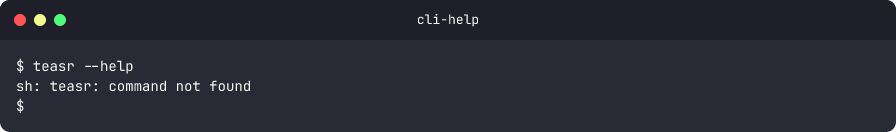
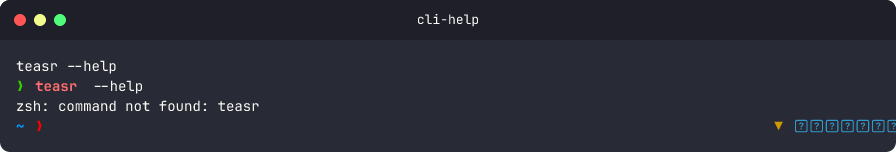
feat: add dynamic web capture with GIF support, shell login mode, and font fallback
- Use $SHELL with -li flags so terminal sessions inherit user's PATH
- Load system fonts as fallback for emoji/Unicode rendering
- Refactor web capture to return Vec<CapturedFrame> for multi-frame GIFs
- Move CapturedFrame to shared types, wire up orchestrator for web GIF/PNG
- Add CSS animations to demo page and capture them as animated GIF

diff --git a/examples/demo/index.html b/examples/demo/index.html
@@ -50,6 +50,61 @@
     .badge-blue { background: rgba(96,165,250,0.15); color: #93c5fd; }
     .badge-green { background: rgba(74,222,128,0.15); color: #86efac; }
 
+    /* Animation: badges slide up + fade in sequentially */
+    .badge {
+      opacity: 0;
+      transform: translateY(8px);
+      animation: pop-in 0.4s ease forwards;
+    }
+    .badge:nth-child(1) { animation-delay: 0.6s; }
+    .badge:nth-child(2) { animation-delay: 0.9s; }
+    .badge:nth-child(3) { animation-delay: 1.2s; }
+    @keyframes pop-in {
+      to { opacity: 1; transform: translateY(0); }
+    }
+
+    /* Animation: cards fade in with stagger */
+    .card {
+      opacity: 0;
+      transform: translateY(16px);
+      animation: slide-up 0.5s ease forwards;
+    }
+    .card:nth-child(1) { animation-delay: 1.5s; }
+    .card:nth-child(2) { animation-delay: 1.8s; }
+    .card:nth-child(3) { animation-delay: 2.1s; }
+    @keyframes slide-up {
+      to { opacity: 1; transform: translateY(0); }
+    }
+
+    /* Progress bar in hero */
+    .progress-bar {
+      margin: 28px auto 0;
+      width: 240px;
+      height: 6px;
+      border-radius: 3px;
+      background: #27272a;
+      overflow: hidden;
+    }
+    .progress-fill {
+      height: 100%;
+      width: 0%;
+      border-radius: 3px;
+      background: linear-gradient(90deg, #a78bfa, #6366f1);
+      animation: fill-bar 2.5s ease forwards 0.3s;
+    }
+    @keyframes fill-bar {
+      to { width: 100%; }
+    }
+
+    /* Status text fades in after bar fills */
+    .status {
+      margin-top: 12px;
+      font-size: 0.85rem;
+      color: #86efac;
+      opacity: 0;
+      animation: pop-in 0.3s ease forwards 2.9s;
+    }
+
     .cards {
       display: grid;
       grid-template-columns: repeat(3, 1fr);
@@ -108,7 +163,10 @@
     <div class="badges">
       <span class="badge badge-purple">PNG</span>
       <span class="badge badge-blue">GIF</span>
+      <span class="badge badge-green">MP4</span>
     </div>
+    <div class="progress-bar"><div class="progress-fill"></div></div>
+    <p class="status">&#10003; 3 scenes captured</p>
   </div>
 
   <div class="cards">

diff --git a/crates/teasr-core/src/orchestrator.rs b/crates/teasr-core/src/orchestrator.rs
@@ -4,7 +4,7 @@ use tracing::{info, warn};
 
 use crate::capture;
 use crate::server::ManagedServer;
-use crate::types::{CaptureResult, OutputFormat, ResolvedConfig, SceneConfig};
+use crate::types::{CaptureResult, CapturedFrame, OutputFormat, ResolvedConfig, SceneConfig};
 
 /// Run all scenes in order and return capture results.
 pub async fn run(config: &ResolvedConfig) -> Result<Vec<CaptureResult>> {
@@ -78,16 +78,69 @@ pub async fn run(config: &ResolvedConfig) -> Result<Vec<CaptureResult>> {
                     files.push(png_path.display().to_string());
                 }
             }
-            _ => {
+            SceneConfig::Web {
+                url,
+                viewport,
+                actions,
+                frame_duration,
+                ..
+            } => {
+                let has_gif = formats.iter().any(|f| matches!(f, OutputFormat::Gif));
+                let has_png = formats.iter().any(|f| matches!(f, OutputFormat::Png));
+
+                let vp = viewport.as_ref().unwrap_or(&config.viewport);
+                let full_url = if let Some(server) = &config.server {
+                    if url.starts_with('/') {
+                        format!("{}{}", server.url.trim_end_matches('/'), url)
+                    } else {
+                        url.clone()
+                    }
+                } else {
+                    url.clone()
+                };
+                let fd = frame_duration.unwrap_or(100);
+
+                let captured_frames = capture::web::capture(
+                    &full_url,
+                    vp,
+                    actions.as_deref().unwrap_or(&[]),
+                    fd,
+                )
+                .await?;
+
+                info!("captured {} web frames", captured_frames.len());
+
+                if has_gif && !captured_frames.is_empty() {
+                    let gif_path = output_dir.join(format!("{scene_name}.gif"));
+                    crate::convert::gif::frames_to_gif(&captured_frames, &gif_path)?;
+                    files.push(gif_path.display().to_string());
+                }
+
+                if has_png && !captured_frames.is_empty() {
+                    let png_path = output_dir.join(format!("{scene_name}.png"));
+                    write_last_frame_png(&captured_frames, &png_path)?;
+                    files.push(png_path.display().to_string());
+                }
+
+                for format in formats {
+                    match format {
+                        OutputFormat::Mp4 => {
+                            warn!("MP4 output requires ffmpeg in PATH - skipping for now");
+                        }
+                        _ => {}
+                    }
+                }
+            }
+            SceneConfig::Screen { .. } => {
                 for format in formats {
                     match format {
                         OutputFormat::Png => {
                             let path = output_dir.join(format!("{scene_name}.png"));
-                            capture_scene(scene, &path, config).await?;
+                            capture_screen_scene(scene, &path).await?;
                             files.push(path.display().to_string());
                         }
                         OutputFormat::Gif => {
-                            warn!("GIF output for non-terminal scenes not yet supported");
+                            warn!("GIF output for screen scenes not yet supported");
                         }
                         OutputFormat::Mp4 => {
                             warn!("MP4 output requires ffmpeg in PATH - skipping for now");
@@ -107,37 +160,21 @@ pub async fn run(config: &ResolvedConfig) -> Result<Vec<CaptureResult>> {
     Ok(results)
 }
 
-async fn capture_scene(
+/// Write the last frame of a capture as a PNG file.
+fn write_last_frame_png(frames: &[CapturedFrame], output_path: &Path) -> Result<()> {
+    let last = frames
+        .last()
+        .context("no frames to write")?;
+    std::fs::write(output_path, &last.png_data)
+        .with_context(|| format!("failed to write {}", output_path.display()))?;
+    Ok(())
+}
+
+async fn capture_screen_scene(
     scene: &SceneConfig,
     output_path: &Path,
-    config: &ResolvedConfig,
 ) -> Result<()> {
     match scene {
-        SceneConfig::Web {
-            url,
-            viewport,
-            actions,
-            ..
-        } => {
-            let vp = viewport.as_ref().unwrap_or(&config.viewport);
-            let full_url = if let Some(server) = &config.server {
-                if url.starts_with('/') {
-                    format!("{}{}", server.url.trim_end_matches('/'), url)
-                } else {
-                    url.clone()
-                }
-            } else {
-                url.clone()
-            };
-
-            capture::web::capture(
-                &full_url,
-                vp,
-                actions.as_deref().unwrap_or(&[]),
-                output_path,
-            )
-            .await
-        }
         SceneConfig::Screen {
             display,
             region,
@@ -158,8 +195,6 @@ async fn capture_scene(
             }
             capture::screen::capture(*display, region.as_ref(), output_path)
         }
-        SceneConfig::Terminal { .. } => {
-            unreachable!("terminal scenes are handled directly in run()")
-        }
+        _ => unreachable!("only screen scenes should be passed here"),
     }
 }

diff --git a/crates/teasr-core/src/capture/web.rs b/crates/teasr-core/src/capture/web.rs
@@ -2,18 +2,36 @@ use anyhow::{Context, Result};
 use chromiumoxide::browser::{Browser, BrowserConfig};
 use chromiumoxide::cdp::browser_protocol::page::CaptureScreenshotFormat;
 use futures::StreamExt;
-use std::path::Path;
 use std::time::Duration;
 
-use crate::types::{ActionType, CaptureAction, ViewportConfig};
+use crate::types::{ActionType, CaptureAction, CapturedFrame, ViewportConfig};
 
-/// Capture a web page screenshot via CDP.
+async fn take_screenshot_frame(
+    page: &chromiumoxide::Page,
+    duration_ms: u64,
+) -> Result<CapturedFrame> {
+    let png_data = page
+        .screenshot(
+            chromiumoxide::page::ScreenshotParams::builder()
+                .format(CaptureScreenshotFormat::Png)
+                .full_page(true)
+                .build(),
+        )
+        .await
+        .context("failed to take screenshot")?;
+    Ok(CapturedFrame {
+        png_data,
+        duration_ms,
+    })
+}
+
+/// Capture a web page as a sequence of frames via CDP.
 pub async fn capture(
     page_url: &str,
     viewport: &ViewportConfig,
     actions: &[CaptureAction],
-    output_path: &Path,
-) -> Result<()> {
+    frame_duration: u64,
+) -> Result<Vec<CapturedFrame>> {
     let config = BrowserConfig::builder()
         .window_size(viewport.width, viewport.height)
         .no_sandbox()
@@ -37,28 +55,26 @@ pub async fn capture(
     page.goto(page_url).await.context("navigation failed")?;
     tokio::time::sleep(Duration::from_millis(1000)).await;
 
-    // Execute actions
+    let mut frames: Vec<CapturedFrame> = Vec::new();
+
+    // Execute actions, capturing frames on Screenshot actions
     for action in actions {
         execute_action(&page, action).await?;
+
+        if matches!(action.action_type, ActionType::Screenshot) {
+            frames.push(take_screenshot_frame(&page, frame_duration).await?);
+        }
     }
 
-    let screenshot = page
-        .screenshot(
-            chromiumoxide::page::ScreenshotParams::builder()
-                .format(CaptureScreenshotFormat::Png)
-                .full_page(true)
-                .build(),
-        )
-        .await
-        .context("failed to take screenshot")?;
-
-    std::fs::write(output_path, &screenshot)
-        .with_context(|| format!("failed to write {}", output_path.display()))?;
+    // Always capture at least one final frame (backwards compat)
+    if frames.is_empty() {
+        frames.push(take_screenshot_frame(&page, frame_duration).await?);
+    }
 
     browser.close().await.ok();
     handle.await.ok();
 
-    Ok(())
+    Ok(frames)
 }
 
 async fn execute_action(
@@ -105,7 +121,7 @@ async fn execute_action(
             tokio::time::sleep(Duration::from_millis(ms)).await;
         }
         ActionType::Screenshot => {
-            // Inline screenshot during action sequence
+            // Frame capture is handled in the caller
         }
     }
 

diff --git a/crates/teasr-core/src/capture/terminal.rs b/crates/teasr-core/src/capture/terminal.rs
@@ -6,13 +6,7 @@ use std::sync::{Arc, Mutex};
 use std::thread;
 use std::time::Duration;
 
-use crate::types::TerminalStep;
-
-/// A single captured frame with PNG data and its display duration.
-pub struct CapturedFrame {
-    pub png_data: Vec<u8>,
-    pub duration_ms: u64,
-}
+use crate::types::{CapturedFrame, TerminalStep};
 
 /// Record an interactive terminal session and return captured frames.
 pub fn capture_session(
@@ -33,7 +27,15 @@ pub fn capture_session(
         })
         .context("failed to open PTY")?;
 
-    let mut cmd = CommandBuilder::new(if cfg!(windows) { "cmd" } else { "sh" });
+    let shell = if cfg!(windows) {
+        "cmd".to_string()
+    } else {
+        std::env::var("SHELL").unwrap_or_else(|_| "sh".to_string())
+    };
+    let mut cmd = CommandBuilder::new(&shell);
+    if !cfg!(windows) {
+        cmd.arg("-li");
+    }
     cmd.env("TERM", "xterm-256color");
     cmd.env("FORCE_COLOR", "1");
     cmd.env("COLORTERM", "truecolor");

diff --git a/crates/teasr-core/src/types.rs b/crates/teasr-core/src/types.rs
@@ -83,6 +83,7 @@ pub enum SceneConfig {
         viewport: Option<ViewportConfig>,
         formats: Option<Vec<OutputFormat>>,
         actions: Option<Vec<CaptureAction>>,
+        frame_duration: Option<u64>,
     },
     Screen {
         name: Option<String>,
@@ -196,6 +197,12 @@ impl TeaseConfig {
             output: self.output.unwrap_or_default(),
         }
     }
+}
+
+/// A single captured frame with PNG data and its display duration.
+pub struct CapturedFrame {
+    pub png_data: Vec<u8>,
+    pub duration_ms: u64,
 }
 
 #[derive(Debug)]

diff --git a/crates/teasr-term-render/src/rasterize.rs b/crates/teasr-term-render/src/rasterize.rs
@@ -20,6 +20,7 @@ static FONTDB: LazyLock<Arc<usvg::fontdb::Database>> = LazyLock::new(|| {
     db.load_font_data(JETBRAINS_MONO_BOLD.to_vec());
     db.load_font_data(JETBRAINS_MONO_ITALIC.to_vec());
     db.load_font_data(JETBRAINS_MONO_BOLD_ITALIC.to_vec());
+    db.load_system_fonts();
     Arc::new(db)
 });
 

diff --git a/crates/teasr-core/src/convert/gif.rs b/crates/teasr-core/src/convert/gif.rs
@@ -1,7 +1,7 @@
 use anyhow::{Context, Result};
 use std::path::Path;
 
-use crate::capture::terminal::CapturedFrame;
+use crate::types::CapturedFrame;
 
 /// Assemble multiple captured frames into an animated GIF.
 pub fn frames_to_gif(frames: &[CapturedFrame], gif_path: &Path) -> Result<()> {
